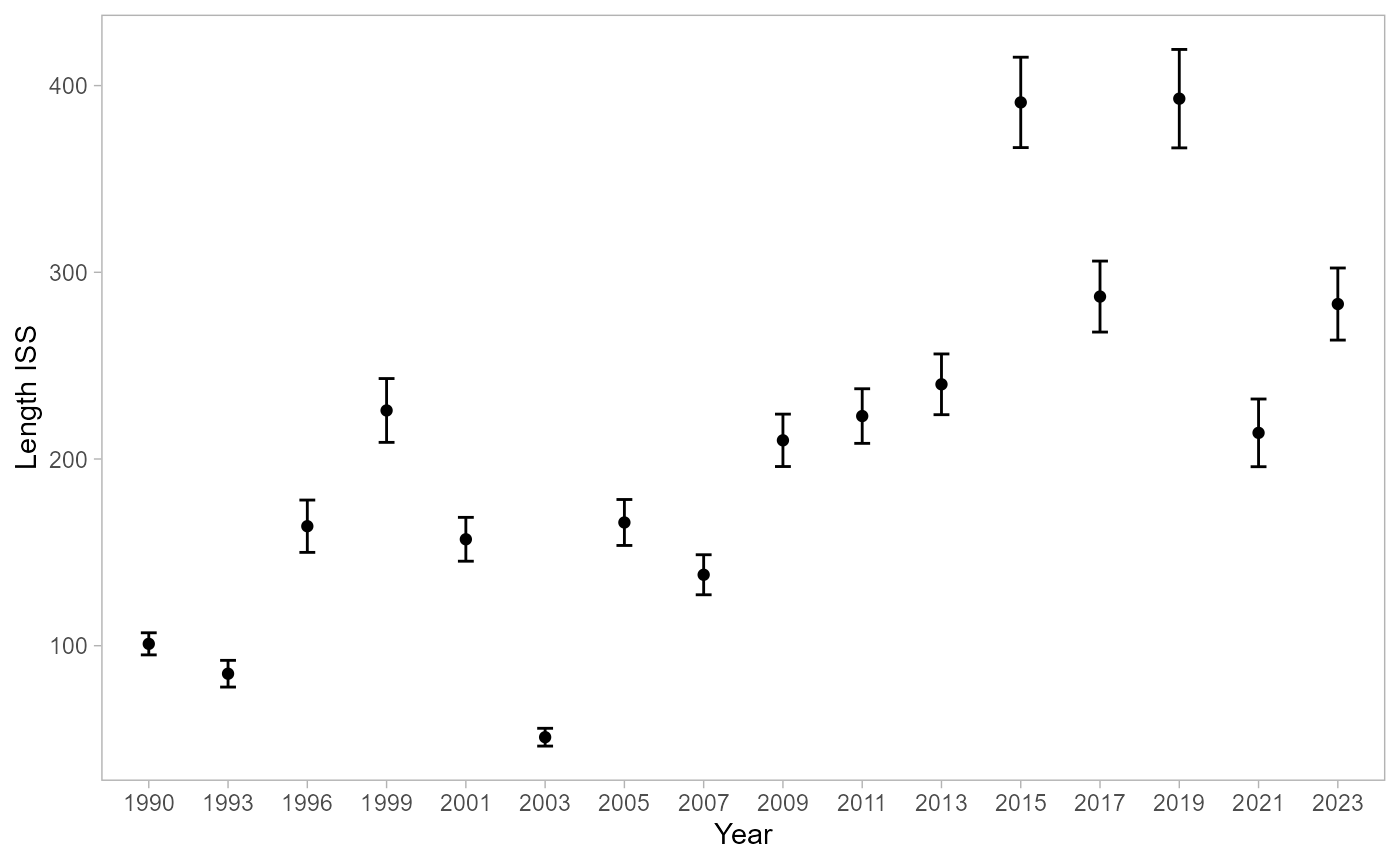
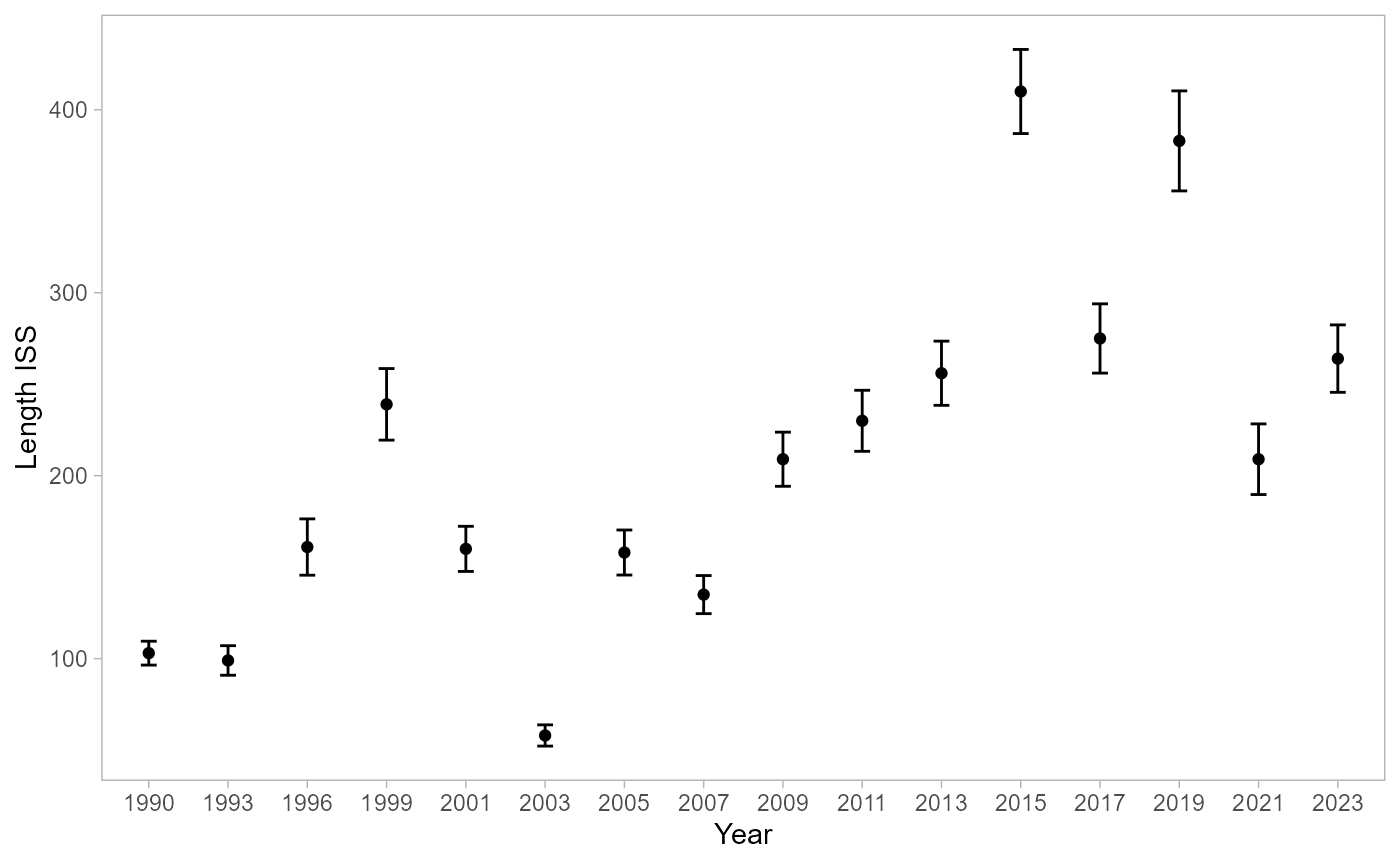
build site

diff --git a/docs/articles/basic_example.html b/docs/articles/basic_example.html
@@ -117,15 +117,15 @@ production run.</p>
 <span><span class="co">#&gt; <span style="color: #949494;"># A tidytable: 557 × 8</span></span></span>
 <span><span class="co">#&gt;     year species_code   sex sex_c length     prop q2_5th q97_5th</span></span>
 <span><span class="co">#&gt;    <span style="color: #949494; font-style: italic;">&lt;dbl&gt;</span>        <span style="color: #949494; font-style: italic;">&lt;dbl&gt;</span> <span style="color: #949494; font-style: italic;">&lt;dbl&gt;</span> <span style="color: #949494; font-style: italic;">&lt;dbl&gt;</span>  <span style="color: #949494; font-style: italic;">&lt;dbl&gt;</span>    <span style="color: #949494; font-style: italic;">&lt;dbl&gt;</span>  <span style="color: #949494; font-style: italic;">&lt;dbl&gt;</span>   <span style="color: #949494; font-style: italic;">&lt;dbl&gt;</span></span></span>
-<span><span class="co">#&gt; <span style="color: #BCBCBC;"> 1</span>  <span style="text-decoration: underline;">1</span>990       <span style="text-decoration: underline;">301</span>502     4     4     22 0.008<span style="text-decoration: underline;">08</span>       0 0.033<span style="text-decoration: underline;">1</span> </span></span>
-<span><span class="co">#&gt; <span style="color: #BCBCBC;"> 2</span>  <span style="text-decoration: underline;">1</span>990       <span style="text-decoration: underline;">301</span>502     4     4     23 0.004<span style="text-decoration: underline;">04</span>       0 0.015<span style="text-decoration: underline;">6</span> </span></span>
-<span><span class="co">#&gt; <span style="color: #BCBCBC;"> 3</span>  <span style="text-decoration: underline;">1</span>990       <span style="text-decoration: underline;">301</span>502     4     4     24 0.002<span style="text-decoration: underline;">02</span>       0 0.010<span style="text-decoration: underline;">6</span> </span></span>
-<span><span class="co">#&gt; <span style="color: #BCBCBC;"> 4</span>  <span style="text-decoration: underline;">1</span>990       <span style="text-decoration: underline;">301</span>502     4     4     25 0.006<span style="text-decoration: underline;">06</span>       0 0.020<span style="text-decoration: underline;">5</span> </span></span>
-<span><span class="co">#&gt; <span style="color: #BCBCBC;"> 5</span>  <span style="text-decoration: underline;">1</span>990       <span style="text-decoration: underline;">301</span>502     4     4     27 0.006<span style="text-decoration: underline;">49</span>       0 0.022<span style="text-decoration: underline;">8</span> </span></span>
-<span><span class="co">#&gt; <span style="color: #BCBCBC;"> 6</span>  <span style="text-decoration: underline;">1</span>990       <span style="text-decoration: underline;">301</span>502     4     4     28 0.006<span style="text-decoration: underline;">06</span>       0 0.022<span style="text-decoration: underline;">3</span> </span></span>
-<span><span class="co">#&gt; <span style="color: #BCBCBC;"> 7</span>  <span style="text-decoration: underline;">1</span>990       <span style="text-decoration: underline;">301</span>502     4     4     29 0.006<span style="text-decoration: underline;">57</span>       0 0.021<span style="text-decoration: underline;">2</span> </span></span>
-<span><span class="co">#&gt; <span style="color: #BCBCBC;"> 8</span>  <span style="text-decoration: underline;">1</span>990       <span style="text-decoration: underline;">301</span>502     4     4     31 0.001<span style="text-decoration: underline;">02</span>       0 0.004<span style="text-decoration: underline;">52</span></span></span>
-<span><span class="co">#&gt; <span style="color: #BCBCBC;"> 9</span>  <span style="text-decoration: underline;">1</span>990       <span style="text-decoration: underline;">301</span>502     4     4     32 0.006<span style="text-decoration: underline;">92</span>       0 0.024<span style="text-decoration: underline;">0</span> </span></span>
+<span><span class="co">#&gt; <span style="color: #BCBCBC;"> 1</span>  <span style="text-decoration: underline;">1</span>990       <span style="text-decoration: underline;">301</span>502     4     4     22 0.008<span style="text-decoration: underline;">08</span>       0 0.029<span style="text-decoration: underline;">6</span> </span></span>
+<span><span class="co">#&gt; <span style="color: #BCBCBC;"> 2</span>  <span style="text-decoration: underline;">1</span>990       <span style="text-decoration: underline;">301</span>502     4     4     23 0.004<span style="text-decoration: underline;">04</span>       0 0.019<span style="text-decoration: underline;">5</span> </span></span>
+<span><span class="co">#&gt; <span style="color: #BCBCBC;"> 3</span>  <span style="text-decoration: underline;">1</span>990       <span style="text-decoration: underline;">301</span>502     4     4     24 0.002<span style="text-decoration: underline;">02</span>       0 0.011<span style="text-decoration: underline;">6</span> </span></span>
+<span><span class="co">#&gt; <span style="color: #BCBCBC;"> 4</span>  <span style="text-decoration: underline;">1</span>990       <span style="text-decoration: underline;">301</span>502     4     4     25 0.006<span style="text-decoration: underline;">06</span>       0 0.025<span style="text-decoration: underline;">4</span> </span></span>
+<span><span class="co">#&gt; <span style="color: #BCBCBC;"> 5</span>  <span style="text-decoration: underline;">1</span>990       <span style="text-decoration: underline;">301</span>502     4     4     27 0.006<span style="text-decoration: underline;">49</span>       0 0.022<span style="text-decoration: underline;">6</span> </span></span>
+<span><span class="co">#&gt; <span style="color: #BCBCBC;"> 6</span>  <span style="text-decoration: underline;">1</span>990       <span style="text-decoration: underline;">301</span>502     4     4     28 0.006<span style="text-decoration: underline;">06</span>       0 0.021<span style="text-decoration: underline;">4</span> </span></span>
+<span><span class="co">#&gt; <span style="color: #BCBCBC;"> 7</span>  <span style="text-decoration: underline;">1</span>990       <span style="text-decoration: underline;">301</span>502     4     4     29 0.006<span style="text-decoration: underline;">57</span>       0 0.027<span style="text-decoration: underline;">4</span> </span></span>
+<span><span class="co">#&gt; <span style="color: #BCBCBC;"> 8</span>  <span style="text-decoration: underline;">1</span>990       <span style="text-decoration: underline;">301</span>502     4     4     31 0.001<span style="text-decoration: underline;">02</span>       0 0.005<span style="text-decoration: underline;">72</span></span></span>
+<span><span class="co">#&gt; <span style="color: #BCBCBC;"> 9</span>  <span style="text-decoration: underline;">1</span>990       <span style="text-decoration: underline;">301</span>502     4     4     32 0.006<span style="text-decoration: underline;">92</span>       0 0.027<span style="text-decoration: underline;">4</span> </span></span>
 <span><span class="co">#&gt; <span style="color: #BCBCBC;">10</span>  <span style="text-decoration: underline;">1</span>990       <span style="text-decoration: underline;">301</span>502     4     4     33 0.000<span style="text-decoration: underline;">736</span>      0 0.003<span style="text-decoration: underline;">44</span></span></span>
 <span><span class="co">#&gt; <span style="color: #949494;"># ℹ 547 more rows</span></span></span></code></pre></div>
 <p>Examine the same items for age composition data.</p>
@@ -144,18 +144,18 @@ production run.</p>
 <span>         sex_cat <span class="op">=</span> <span class="va">sex_cat</span>,</span>
 <span>         spec_case <span class="op">=</span> <span class="va">spec_case</span><span class="op">)</span></span>
 <span><span class="co">#&gt; <span style="color: #949494;"># A tidytable: 511 × 8</span></span></span>
-<span><span class="co">#&gt;     year species_code   sex sex_c   age    prop q2_5th q97_5th</span></span>
-<span><span class="co">#&gt;    <span style="color: #949494; font-style: italic;">&lt;dbl&gt;</span>        <span style="color: #949494; font-style: italic;">&lt;dbl&gt;</span> <span style="color: #949494; font-style: italic;">&lt;dbl&gt;</span> <span style="color: #949494; font-style: italic;">&lt;dbl&gt;</span> <span style="color: #949494; font-style: italic;">&lt;dbl&gt;</span>   <span style="color: #949494; font-style: italic;">&lt;dbl&gt;</span>  <span style="color: #949494; font-style: italic;">&lt;dbl&gt;</span>   <span style="color: #949494; font-style: italic;">&lt;dbl&gt;</span></span></span>
-<span><span class="co">#&gt; <span style="color: #BCBCBC;"> 1</span>  <span style="text-decoration: underline;">1</span>990       <span style="text-decoration: underline;">301</span>502     4     4     6 0.002<span style="text-decoration: underline;">63</span>     <span style="color: #BB0000;">NA</span>      <span style="color: #BB0000;">NA</span></span></span>
-<span><span class="co">#&gt; <span style="color: #BCBCBC;"> 2</span>  <span style="text-decoration: underline;">1</span>990       <span style="text-decoration: underline;">301</span>502     4     4     7 0.001<span style="text-decoration: underline;">03</span>     <span style="color: #BB0000;">NA</span>      <span style="color: #BB0000;">NA</span></span></span>
-<span><span class="co">#&gt; <span style="color: #BCBCBC;"> 3</span>  <span style="text-decoration: underline;">1</span>990       <span style="text-decoration: underline;">301</span>502     4     4     8 0.001<span style="text-decoration: underline;">07</span>     <span style="color: #BB0000;">NA</span>      <span style="color: #BB0000;">NA</span></span></span>
-<span><span class="co">#&gt; <span style="color: #BCBCBC;"> 4</span>  <span style="text-decoration: underline;">1</span>990       <span style="text-decoration: underline;">301</span>502     4     4     9 0.008<span style="text-decoration: underline;">13</span>     <span style="color: #BB0000;">NA</span>      <span style="color: #BB0000;">NA</span></span></span>
-<span><span class="co">#&gt; <span style="color: #BCBCBC;"> 5</span>  <span style="text-decoration: underline;">1</span>990       <span style="text-decoration: underline;">301</span>502     4     4    10 0.108       <span style="color: #BB0000;">NA</span>      <span style="color: #BB0000;">NA</span></span></span>
-<span><span class="co">#&gt; <span style="color: #BCBCBC;"> 6</span>  <span style="text-decoration: underline;">1</span>990       <span style="text-decoration: underline;">301</span>502     4     4    11 0.131       <span style="color: #BB0000;">NA</span>      <span style="color: #BB0000;">NA</span></span></span>
-<span><span class="co">#&gt; <span style="color: #BCBCBC;"> 7</span>  <span style="text-decoration: underline;">1</span>990       <span style="text-decoration: underline;">301</span>502     4     4    12 0.112       <span style="color: #BB0000;">NA</span>      <span style="color: #BB0000;">NA</span></span></span>
-<span><span class="co">#&gt; <span style="color: #BCBCBC;"> 8</span>  <span style="text-decoration: underline;">1</span>990       <span style="text-decoration: underline;">301</span>502     4     4    13 0.152       <span style="color: #BB0000;">NA</span>      <span style="color: #BB0000;">NA</span></span></span>
-<span><span class="co">#&gt; <span style="color: #BCBCBC;"> 9</span>  <span style="text-decoration: underline;">1</span>990       <span style="text-decoration: underline;">301</span>502     4     4    14 0.200       <span style="color: #BB0000;">NA</span>      <span style="color: #BB0000;">NA</span></span></span>
-<span><span class="co">#&gt; <span style="color: #BCBCBC;">10</span>  <span style="text-decoration: underline;">1</span>990       <span style="text-decoration: underline;">301</span>502     4     4    15 0.100       <span style="color: #BB0000;">NA</span>      <span style="color: #BB0000;">NA</span></span></span>
+<span><span class="co">#&gt;     year species_code   sex sex_c   age    prop   q2_5th q97_5th</span></span>
+<span><span class="co">#&gt;    <span style="color: #949494; font-style: italic;">&lt;dbl&gt;</span>        <span style="color: #949494; font-style: italic;">&lt;dbl&gt;</span> <span style="color: #949494; font-style: italic;">&lt;dbl&gt;</span> <span style="color: #949494; font-style: italic;">&lt;dbl&gt;</span> <span style="color: #949494; font-style: italic;">&lt;dbl&gt;</span>   <span style="color: #949494; font-style: italic;">&lt;dbl&gt;</span>    <span style="color: #949494; font-style: italic;">&lt;dbl&gt;</span>   <span style="color: #949494; font-style: italic;">&lt;dbl&gt;</span></span></span>
+<span><span class="co">#&gt; <span style="color: #BCBCBC;"> 1</span>  <span style="text-decoration: underline;">1</span>990       <span style="text-decoration: underline;">301</span>502     4     4     6 0.002<span style="text-decoration: underline;">63</span> 0        0.013<span style="text-decoration: underline;">5</span> </span></span>
+<span><span class="co">#&gt; <span style="color: #BCBCBC;"> 2</span>  <span style="text-decoration: underline;">1</span>990       <span style="text-decoration: underline;">301</span>502     4     4     7 0.001<span style="text-decoration: underline;">03</span> 0        0.003<span style="text-decoration: underline;">93</span></span></span>
+<span><span class="co">#&gt; <span style="color: #BCBCBC;"> 3</span>  <span style="text-decoration: underline;">1</span>990       <span style="text-decoration: underline;">301</span>502     4     4     8 0.001<span style="text-decoration: underline;">07</span> 0        0.005<span style="text-decoration: underline;">37</span></span></span>
+<span><span class="co">#&gt; <span style="color: #BCBCBC;"> 4</span>  <span style="text-decoration: underline;">1</span>990       <span style="text-decoration: underline;">301</span>502     4     4     9 0.008<span style="text-decoration: underline;">13</span> 0.000<span style="text-decoration: underline;">927</span> 0.027<span style="text-decoration: underline;">0</span> </span></span>
+<span><span class="co">#&gt; <span style="color: #BCBCBC;"> 5</span>  <span style="text-decoration: underline;">1</span>990       <span style="text-decoration: underline;">301</span>502     4     4    10 0.108   0.008<span style="text-decoration: underline;">17</span>  0.340  </span></span>
+<span><span class="co">#&gt; <span style="color: #BCBCBC;"> 6</span>  <span style="text-decoration: underline;">1</span>990       <span style="text-decoration: underline;">301</span>502     4     4    11 0.131   0.002<span style="text-decoration: underline;">80</span>  0.310  </span></span>
+<span><span class="co">#&gt; <span style="color: #BCBCBC;"> 7</span>  <span style="text-decoration: underline;">1</span>990       <span style="text-decoration: underline;">301</span>502     4     4    12 0.112   0.003<span style="text-decoration: underline;">91</span>  0.291  </span></span>
+<span><span class="co">#&gt; <span style="color: #BCBCBC;"> 8</span>  <span style="text-decoration: underline;">1</span>990       <span style="text-decoration: underline;">301</span>502     4     4    13 0.152   0.001<span style="text-decoration: underline;">72</span>  0.352  </span></span>
+<span><span class="co">#&gt; <span style="color: #BCBCBC;"> 9</span>  <span style="text-decoration: underline;">1</span>990       <span style="text-decoration: underline;">301</span>502     4     4    14 0.200   0.044<span style="text-decoration: underline;">5</span>   0.402  </span></span>
+<span><span class="co">#&gt; <span style="color: #BCBCBC;">10</span>  <span style="text-decoration: underline;">1</span>990       <span style="text-decoration: underline;">301</span>502     4     4    15 0.100   0.009<span style="text-decoration: underline;">40</span>  0.247  </span></span>
 <span><span class="co">#&gt; <span style="color: #949494;"># ℹ 501 more rows</span></span></span></code></pre></div>
   </div>
 
